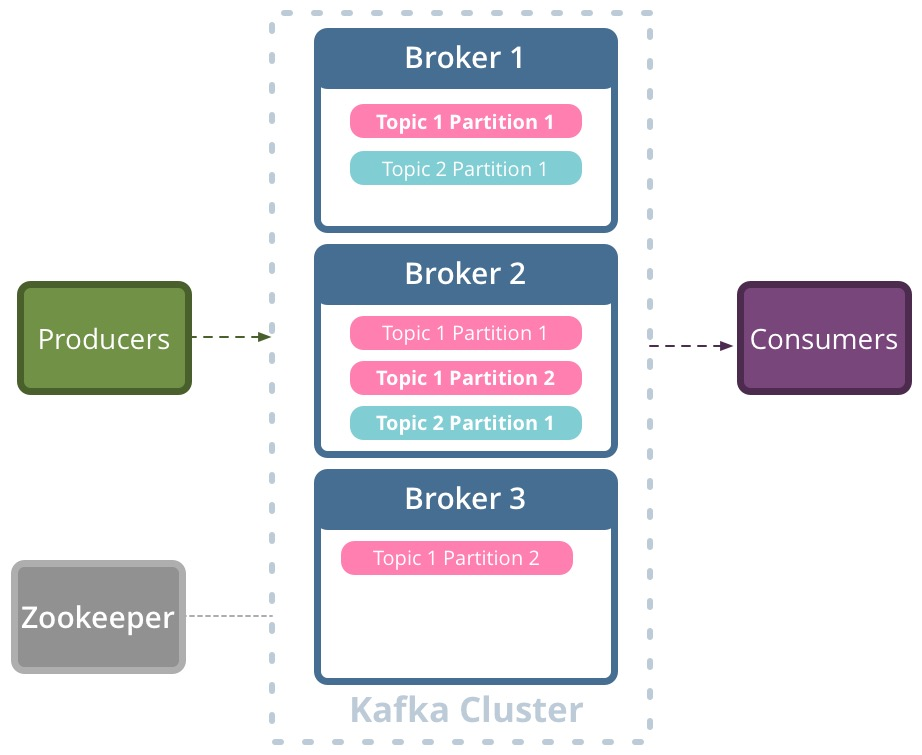
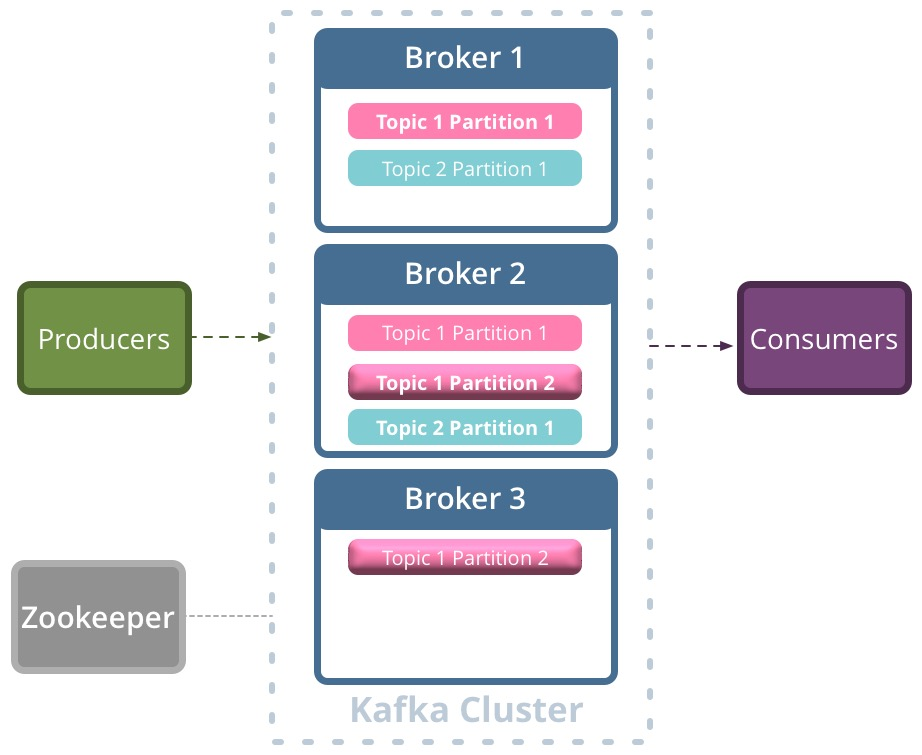
Adding more images to explain topics and partitions, partition leadership

diff --git a/index.html b/index.html
@@ -29,9 +29,6 @@
   document.getElementsByTagName('head')[0].appendChild(link);
  </script>
 
- <!--[if lt IE 9]>
-    <script src="lib/js/html5shiv.js"></script>
-    <![endif]-->
 </head>
 
 <body>
@@ -44,11 +41,12 @@
    <section class="title">
     <h1>Apache Kafka</h1>
     <h3>High-throughput messaging system <i>or</i> distributed commit logs?</h3>
+    <aside class="notes">
+     Apache project initially developed by LinkedIn <br>
+    </aside>
    </section>
 
-   <section class="title">
-    <h1>why another tool?</h1>
-    <h3>Why are we here? What are we going to do?</h3>
+   <section class="title" data-background="images/data_background.jpg">
     <aside class="notes">
      <ul>
       <li>A queue per consumer</li>
@@ -56,6 +54,10 @@
       <li>Consumers at different consumption pace</li>
       <i>commit log</i>
      </ul>
+     fire hose of events (100k+/sec)
+     <br> messages/events to be delivered at least once
+     <br> mix of online and batch consumers
+     <br>
     </aside>
    </section>
 
@@ -64,11 +66,10 @@
     <br>
     <ul>
      <li>Explicitly distributed</li>
-     <li>Persistent messages as the common case</li>
      <li>Partitioned</li>
      <li>Replicated</li>
      <li>Dumb pipelines</li>
-     <i>commit log</i>
+     <li>Persistent messages as the common case</li>
     </ul>
     <aside class="notes">
      central commit log
@@ -81,6 +82,21 @@
      <br> State information as what is being consumed is part of consumer and not data pipeline
      <br>
      <br> Prodcers, brokers and consumers run as a logical group with the help of Zookeeper
+     <br>
+    </aside>
+   </section>
+
+   <section>
+    <h2>Decoupled data pipeline</h2>
+    <br>
+    <img width="1400" data-src="images/kafka_overview.jpg" alt="Kafka overview" style="border:0">
+    <aside class="notes">
+     it is a quite simple abstraction
+     <br> Producers send messages to Kafka clusters
+     <br> Kafka cluster holds these messages for specified time
+     <br> Consumers read content from cluster on their own pace
+     <br> producer need not know anything abt downstream pipeline
+     <br>
      <br>
     </aside>
    </section>
@@ -105,23 +121,28 @@
    </section>
 
    <section>
-    <h2>Decoupled data pipeline</h2>
-    <br>
-    <img width="1400" data-src="images/kafka_overview.jpg" alt="Kafka overview" style="border:0">
-    <aside class="notes">
-     it is a quite simple abstraction
-     <br> Producers send messages to Kafka clusters
-     <br> Kafka cluster holds these messages for specified time
-     <br> Consumers read content from cluster on their own pace
-     <br> producer need not know anything abt downstream pipeline
-     <br>
-     <br>
-    </aside>
+    <h2>Brokers</h2>
+    <img width="1000" data-src="images/topics_partitions_overview1.jpg" alt="Kafka overview" style="border:0">
    </section>
 
    <section>
-    <h2>Topic and Partitions</h2>
-    <img width="1000" data-src="images/topics_partitions_overview.jpg" alt="Kafka overview" style="border:0">
+    <h2>Replicated</h2>
+    <img width="1000" data-src="images/topics_partitions_overview2.jpg" alt="Kafka overview" style="border:0">
+   </section>
+
+   <section>
+    <h2>Partition leader</h2>
+    <img width="1000" data-src="images/topics_partitions_overview3.jpg" alt="Kafka overview" style="border:0">
+   </section>
+
+   <section>
+    <h2>Partitioned</h2>
+    <img width="1000" data-src="images/topics_partitions_overview4.jpg" alt="Kafka overview" style="border:0">
+   </section>
+
+   <section>
+    <h2>Overview</h2>
+    <img width="1000" data-src="images/topics_partitions_overview5.jpg" alt="Kafka overview" style="border:0">
     <aside class="notes">
      topic is the virtual category, it is the key abstraction
      <br> Kafka topic is a append-only or write-ahead log
@@ -221,6 +242,34 @@
      <br> and optimizing resource utilization across the system. Because they can be created dynamically,
      <br> we can make our business rules very flexible.
      <br>
+    </aside>
+   </section>
+
+   <section>
+    <h2>Cons?</h2>
+    <br>
+    <ul>
+     <li>Zookeeper</li>
+     <li>Java based clients</li>
+    </ul>
+    <aside class="notes">
+     Kafka will not work without zookeeper - CAP theorem CP system - unless a quorum of nodes are up (2 of 3, or 3 of 5), the whole system is unavailable
+     <br> Kafka 0.8 requires that the client have access to the same ZooKeeper instance as the server
+     <br> Non-java based clients are not as great as Java ones, especially with Kafka 0.8
+     <br>
+    </aside>
+   </section>
+
+   <section>
+    <h2>Eco system</h2>
+    <br>
+    <ul>
+     <li>Strom</li>
+     <li>Cassandra</li>
+    </ul>
+    <aside class="notes">
+     Storm on top of one of these solutions to add computation, filtering, querying, on your streams. <br>
+     Cassandra as a queryable cache <br>
     </aside>
    </section>
 
